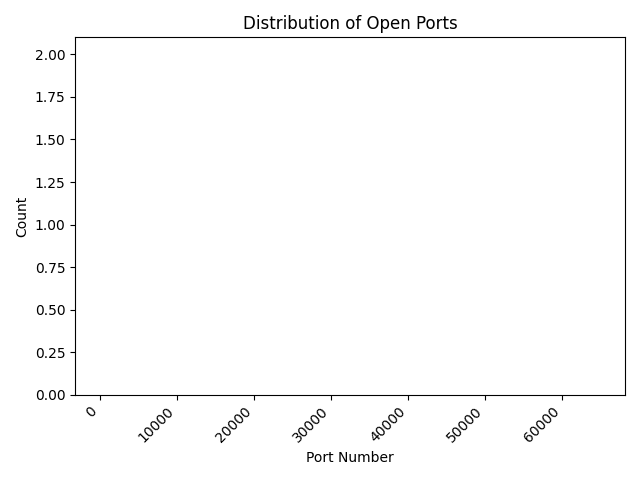
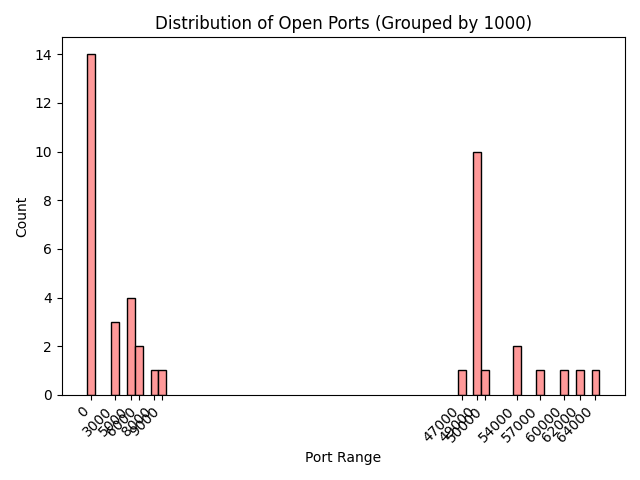
feat: Fix visualization of open ports distribution by addressing data sparsity and adding port bucketing

diff --git a/visualizations/visualize.py b/visualizations/visualize.py
@@ -74,13 +74,31 @@ def plot_open_ports_distribution(hosts, filename="open_ports_distribution.png"):
         for port in host.get("open_ports", []):
             port_counts[port] = port_counts.get(port, 0) + 1
 
-    plt.bar(port_counts.keys(), port_counts.values(), color="#ff9999")
-    plt.xticks(rotation=45, ha="right")
-    plt.title("Distribution of Open Ports")
-    plt.xlabel("Port Number")
+    # Debugging: Print port_counts
+    print("Port Counts:", port_counts)
+
+    if not port_counts:
+        print("No open ports data available for visualization.")
+        return
+
+    # Optionally group ports into buckets for better visualization
+    bucket_size = 1000  # Group ports into buckets of 1000
+    buckets = {}
+    for port, count in port_counts.items():
+        bucket = (port // bucket_size) * bucket_size
+        buckets[bucket] = buckets.get(bucket, 0) + count
+
+    # Plot the buckets
+    plt.bar(buckets.keys(), buckets.values(), width=bucket_size, color="#ff9999", edgecolor="black")
+    plt.xticks(list(buckets.keys()), rotation=45, ha="right")
+    plt.title("Distribution of Open Ports (Grouped by 1000)")
+    plt.xlabel("Port Range")
     plt.ylabel("Count")
     plt.tight_layout()
-    full_path = os.path.join("images", filename)  # Save in 'images/' directory
+
+    # Save the plot
+    os.makedirs("images", exist_ok=True)  # Ensure directory exists
+    full_path = os.path.join("images", filename)
     plt.savefig(full_path)
-    plt.close()  # Close the plot to free memory
+    plt.close()
     print(f"Saved open ports distribution plot to {full_path}")
